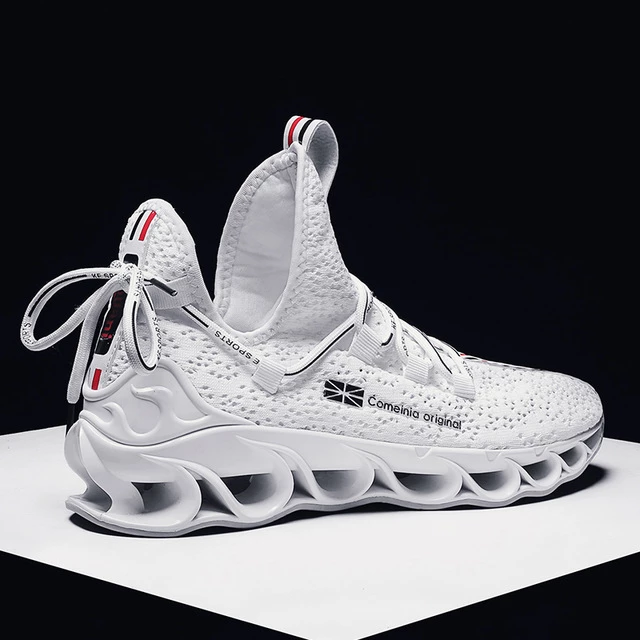
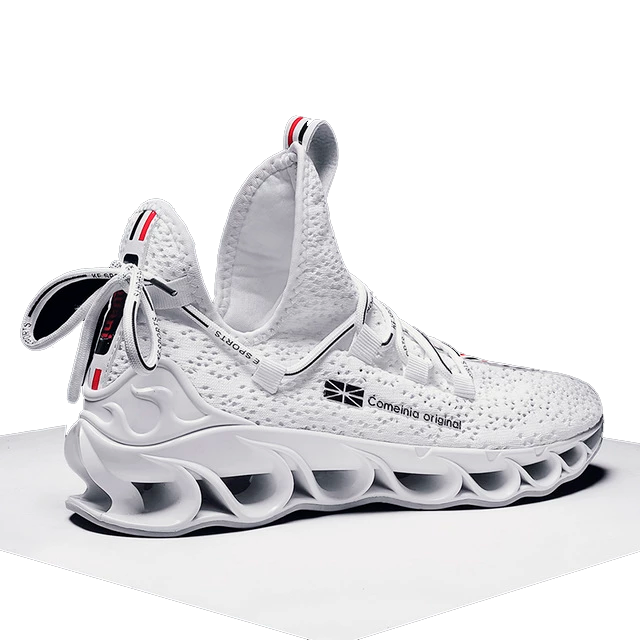
change image background

diff --git a/index.html b/index.html
@@ -77,7 +77,7 @@
 		<section>
 			<div class="product">
 				<picture>
-					<img src="img/calca_preta.jpg" alt="">
+					<img src="img/calca_preta.png" alt="">
 				</picture>
 				<div class="detail">
 					<p>
@@ -93,7 +93,7 @@
 			</div>
 			<div class="product">
 				<picture>
-					<img src="img/short_preto.jpg" alt="">
+					<img src="img/short_preto.png" alt="">
 				</picture>
 				<div class="detail">
 					<p>
@@ -109,7 +109,7 @@
 			</div>
 			<div class="product">
 				<picture>
-					<img src="img/short_azul.jpg" alt="">
+					<img src="img/short_azul.png" alt="">
 				</picture>
 				<div class="detail">
 					<p>
@@ -351,7 +351,7 @@
 				<a href="#" class="goods-card">
 					<span class="label">Novos</span>
 					<!-- /.label -->
-					<img src="./img/calca_preta.jpg" alt="img: Hoodie" class="goods-img" />
+					<img src="./img/calca_preta.png" alt="img: Hoodie" class="goods-img" />
 					<h3 class="goods-title">Calça Preta Slim</h3>
 					<!-- /.goods-title -->
 					<p class="goods-description">
@@ -369,7 +369,7 @@
 				<a href="#" class="goods-card">
 					<span class="label">Novos</span>
 					<!-- /.label -->
-					<img src="./img/short_azul.jpg" alt="img: Faded Beach Trousers" class="goods-img" />
+					<img src="./img/short_azul.png" alt="img: Faded Beach Trousers" class="goods-img" />
 					<h3 class="goods-title">Short Curto</h3>
 					<!-- /.goods-title -->
 					<p class="goods-description">Azul Escuro</p>
@@ -385,7 +385,7 @@
 				<a href="#" class="goods-card">
 					<span class="label">Novos</span>
 					<!-- /.label -->
-					<img src="./img/short_preto.jpg" alt="img: Text Camisa" class="goods-img" />
+					<img src="./img/short_preto.png" alt="img: Text Camisa" class="goods-img" />
 					<h3 class="goods-title">Short Curto</h3>
 					<!-- /.goods-title -->
 					<p class="goods-description">Preto</p>
